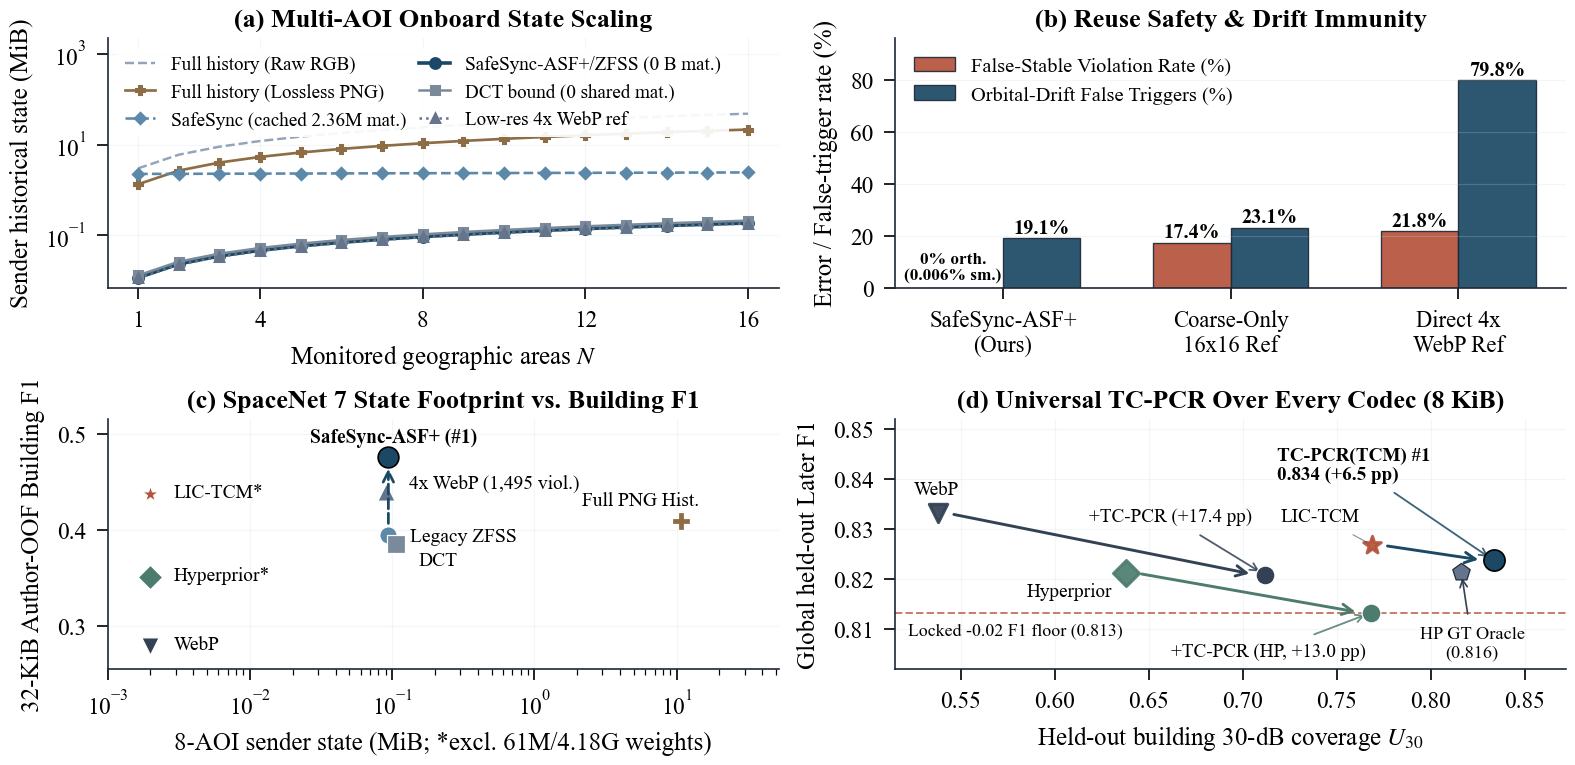
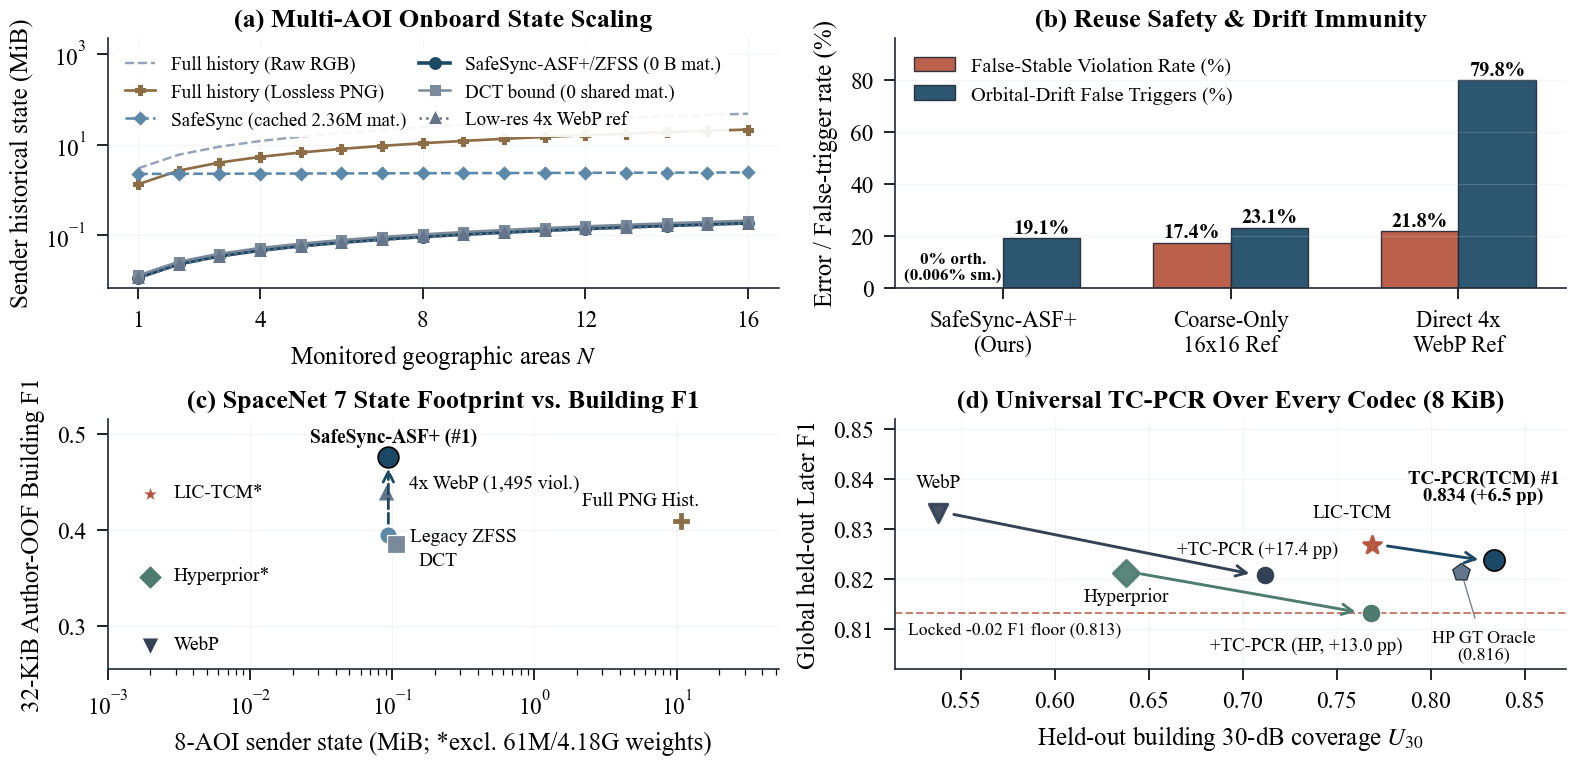
Declutter Fig.1(a) and Fig.5(d): remove redundant label pointer arrows

diff --git a/scripts/build_teaser_pareto_figure.py b/scripts/build_teaser_pareto_figure.py
@@ -76,49 +76,49 @@ def main() -> None:
     ax1.text(0.073, 0.517, "Pareto CPU Zone", fontsize=6.4, fontweight="bold",
              color="#000000", ha="left", va="top", zorder=2)
 
+    # (label, x, y, color, marker, size, text_xy, ha, is_hero, use_leader)
+    # Only use a subtle leader line where two markers sit immediately adjacent (Legacy ZFSS vs. DCT).
     points = [
         ("SafeSync-ASF+ (Ours)\n0 B weights | 118 ms CPU", 0.1175, asf32_f1, PALETTE["safesync"], "o", 54,
-         (0.28, 0.474), "left", True),
+         (0.245, 0.471), "left", True, False),
         ("4x WebP Ref (1,495 viol.)", 0.2264, float(l32["lowres_4x_webp_12k"]["building_f1"]),
-         PALETTE["lowres"], "^", 32, (0.42, 0.438), "left", False),
+         PALETTE["lowres"], "^", 32, (0.280, 0.439), "left", False, False),
         ("Full Hist. (1.34 MiB)", 0.2575, float(l32["full_cache_gate30"]["building_f1"]),
-         PALETTE["full_hist"], "P", 34, (0.45, 0.409), "left", False),
+         PALETTE["full_hist"], "P", 34, (0.315, 0.410), "left", False, False),
         ("Legacy ZFSS", 0.2547, float(l32["gaussian_20261029"]["building_f1"]),
-         PALETTE["safesync_sub"], "o", 30, (0.18, 0.362), "right", False),
+         PALETTE["safesync_sub"], "o", 30, (0.195, 0.366), "right", False, True),
         ("DCT (13.9 KB)", 0.2912, float(l32["dct_bound"]["building_f1"]),
-         PALETTE["dct"], "s", 28, (0.48, 0.371), "left", False),
+         PALETTE["dct"], "s", 28, (0.360, 0.381), "left", False, False),
         ("Stateless WebP", 2.06, float(l32["full_webp"]["building_f1"]),
-         PALETTE["webp"], "v", 32, (2.75, 0.278), "left", False),
+         PALETTE["webp"], "v", 32, (2.65, 0.279), "left", False, False),
         ("Hyperprior\n(61.1 MB, GPU)", 11.54, float(l32["learned_hyperprior_q1_8"]["building_f1"]),
-         PALETTE["hyperprior"], "D", 36, (8.20, 0.338), "right", False),
+         PALETTE["hyperprior"], "D", 36, (9.0, 0.348), "right", False, False),
         ("LIC-TCM\n(4.18 GB, GPU)", 30.88, tcm32_f1,
-         PALETTE["tcm"], "*", 62, (23.0, 0.398), "center", False),
+         PALETTE["tcm"], "*", 62, (29.5, 0.409), "center", False, False),
     ]
 
-    for lbl, xs, ys, col, mk, sz, (tx, ty), ha, is_hero in points:
+    for lbl, xs, ys, col, mk, sz, (tx, ty), ha, is_hero, use_leader in points:
         ax1.scatter(xs, ys, color=col, marker=mk, s=sz,
                     edgecolors="#000000" if is_hero else "white",
                     linewidths=0.60 if is_hero else 0.40,
                     zorder=7 if is_hero else 5)
-        arrow_kw = dict(arrowstyle="-", color="#000000", lw=0.48, alpha=0.75) if is_hero else (
-            dict(arrowstyle="-", color="#334155", lw=0.38, alpha=0.55) if "WebP" != lbl.split()[-1] else None
-        )
+        arrow_kw = dict(arrowstyle="-", color="#475569", lw=0.42, alpha=0.65) if use_leader else None
         ax1.annotate(lbl, (xs, ys), xytext=(tx, ty), fontsize=6.45 if is_hero else 6.1,
                      color="#000000", fontweight="bold" if is_hero else "normal",
                      ha=ha, va="center", linespacing=1.12, arrowprops=arrow_kw, zorder=8)
 
-    # Clean upward sweeping arrow from 4.18-GB GPU LIC-TCM -> SafeSync-ASF+ (thin crisp stroke!)
-    ax1.annotate("", xy=(0.145, asf32_f1 + 0.008), xytext=(28.0, tcm32_f1 + 0.011),
-                 arrowprops=dict(arrowstyle="-|>", color=PALETTE["safesync"], lw=0.90,
-                                 linestyle="--", connectionstyle="arc3,rad=0.16"), zorder=6)
-    ax1.text(7.2, 0.506, "263x faster, +3.86 pp\n(0 B vs. 4.18 GB)", fontsize=6.25, fontweight="bold",
+    # Single narrative dashed arc from 4.18-GB GPU LIC-TCM -> SafeSync-ASF+ (cleanly clear of callout box)
+    ax1.annotate("", xy=(0.145, asf32_f1 + 0.010), xytext=(27.5, tcm32_f1 + 0.011),
+                 arrowprops=dict(arrowstyle="-|>", color=PALETTE["safesync"], lw=0.88,
+                                 linestyle="--", connectionstyle="arc3,rad=0.14"), zorder=6)
+    ax1.text(7.2, 0.514, "263x faster, +3.86 pp\n(0 B vs. 4.18 GB)", fontsize=6.2, fontweight="bold",
              color="#000000", ha="center", va="center",
-             bbox=dict(boxstyle="round,pad=0.18", facecolor="white", edgecolor=PALETTE["safesync"], lw=0.50, alpha=0.96),
+             bbox=dict(boxstyle="round,pad=0.16", facecolor="white", edgecolor=PALETTE["safesync"], lw=0.48, alpha=0.96),
              zorder=9)
 
     ax1.set_xscale("log")
     ax1.set_xlim(0.065, 62.0)
-    ax1.set_ylim(0.255, 0.534)
+    ax1.set_ylim(0.255, 0.542)
     ax1.set_xticks([0.1, 1.0, 10.0])
     ax1.set_xticklabels(["0.1", "1", "10"])
     ax1.set_xlabel("Onboard sender latency per frame (s, log scale)")

diff --git a/scripts/build_decision_figures_and_cost_table.py b/scripts/build_decision_figures_and_cost_table.py
@@ -237,15 +237,19 @@ def build_figure2_storage_vs_utility(
     ax.spines[["top", "right"]].set_visible(False)
 
     # Panel (d): Universal Plug-and-Play TC-PCR Across All 3 Codec Tiers on SECOND (8 KiB, Building — strictly GLOBAL F1)
+    # Keep ONLY the 3 real uplift transition arrows (Standalone -> +TC-PCR); place all labels directly beside their markers.
     ax = axes[1, 1]
     brows = sec_univ["results_by_class"]["Building"]["rows"]
     ora = diag["oracle_diagnostic_h5_b8192"]["methods"]
     tiers = [
-        ("WebP", "webp_standalone", "webp_tcpcr_unknown", "#334155", "v", (0.525, 0.8370), (0.618, 0.8315), "+TC-PCR (+17.4 pp)"),
-        ("Hyperprior", "hyperprior_standalone", "hyperprior_tcpcr_unknown", "#4D7C6F", "D", (0.585, 0.8165), (0.662, 0.8045), "+TC-PCR (HP, +13.0 pp)"),
-        ("LIC-TCM", "tcm_standalone", "tcm_tcpcr_unknown", "#B5533C", "*", (0.720, 0.8315), (0.718, 0.8400), "TC-PCR(TCM) #1\n0.834 (+6.5 pp)"),
+        ("WebP", "webp_standalone", "webp_tcpcr_unknown", "#334155", "v",
+         (0.538, 0.8375), "center", (0.708, 0.8260), "center", "+TC-PCR (+17.4 pp)"),
+        ("Hyperprior", "hyperprior_standalone", "hyperprior_tcpcr_unknown", "#4D7C6F", "D",
+         (0.638, 0.8148), "center", (0.734, 0.8068), "center", "+TC-PCR (HP, +13.0 pp)"),
+        ("LIC-TCM", "tcm_standalone", "tcm_tcpcr_unknown", "#B5533C", "*",
+         (0.758, 0.8315), "center", (0.828, 0.8385), "center", "TC-PCR(TCM) #1\n0.834 (+6.5 pp)"),
     ]
-    for name, k_st, k_tp, col, mk, xy_st, xy_tp, tp_lbl in tiers:
+    for name, k_st, k_tp, col, mk, xy_st, ha_st, xy_tp, ha_tp, tp_lbl in tiers:
         st, tp = brows[k_st], brows[k_tp]
         is_tcm = name == "LIC-TCM"
         tp_col = "#1B4965" if is_tcm else col
@@ -254,22 +258,20 @@ def build_figure2_storage_vs_utility(
                    edgecolors="#000000" if is_tcm else "white", linewidths=0.55 if is_tcm else 0.40, zorder=5)
         ax.annotate("", xy=(tp["u30"] - 0.005, tp["later_f1"]), xytext=(st["u30"] + 0.005, st["later_f1"]),
                     arrowprops=dict(arrowstyle="->", color=tp_col, lw=0.95))
-        ax.annotate(name, (st["u30"], st["later_f1"]), xytext=xy_st, fontsize=6.3, color="#000000",
-                    arrowprops=dict(arrowstyle="-", color="#334155", lw=0.40, alpha=0.55) if is_tcm else None)
-        ax.annotate(tp_lbl, (tp["u30"], tp["later_f1"]), xytext=xy_tp, fontsize=6.25, color="#000000",
-                    fontweight="bold" if is_tcm else "normal",
-                    arrowprops=dict(arrowstyle="->", color=tp_col, lw=0.60, alpha=0.85))
+        ax.text(xy_st[0], xy_st[1], name, fontsize=6.3, color="#000000", ha=ha_st, va="bottom")
+        ax.text(xy_tp[0], xy_tp[1], tp_lbl, fontsize=6.2, color="#000000",
+                fontweight="bold" if is_tcm else "normal", ha=ha_tp, va="center", linespacing=1.08)
 
     # Show locked -0.02 global Later-F1 safety floor & Hyperprior GT Oracle strictly on the same global denominator
     f1_floor = brows["webp_standalone"]["later_f1"] - 0.02
     ax.axhline(f1_floor, color="#B5533C", linestyle="--", linewidth=0.65, alpha=0.75, zorder=2)
-    ax.text(0.522, f1_floor - 0.0020, "Locked -0.02 F1 floor (0.813)", fontsize=5.85, color="#000000", va="top")
+    ax.text(0.522, f1_floor - 0.0018, "Locked -0.02 F1 floor (0.813)", fontsize=5.8, color="#000000", va="top")
 
     ax.scatter(ora["oracle_hybrid_with_full_hp"]["u30"], ora["oracle_hybrid_with_full_hp"]["later_f1"],
                color="#64748B", marker="p", s=36, edgecolors="#1F2937", linewidths=0.40, zorder=4)
     ax.annotate("HP GT Oracle\n(0.816)", (ora["oracle_hybrid_with_full_hp"]["u30"], ora["oracle_hybrid_with_full_hp"]["later_f1"]),
-                xytext=(0.822, 0.8045), fontsize=6.0, color="#000000", ha="center",
-                arrowprops=dict(arrowstyle="->", color="#334155", lw=0.55))
+                xytext=(0.828, 0.8065), fontsize=5.95, color="#000000", ha="center", va="center", linespacing=1.06,
+                arrowprops=dict(arrowstyle="-", color="#475569", lw=0.45, alpha=0.75))
 
     ax.set_xlim(0.515, 0.872)
     ax.set_ylim(0.802, 0.852)
